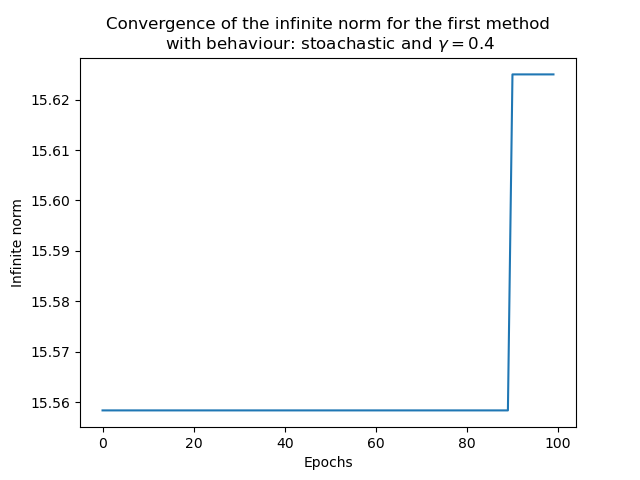
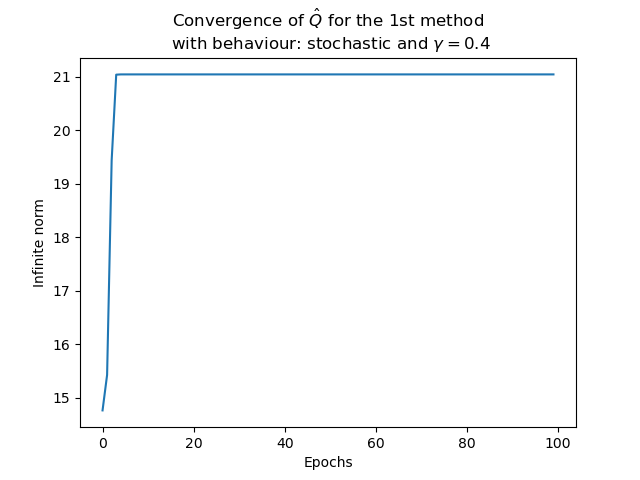
figures + tests

diff --git a/code/section5.py b/code/section5.py
@@ -39,6 +39,8 @@ class Q_Learning:
         self.estimated_Q = self.offline_learning()
         self.estimated_policy = self.compute_policy()
 
+        self.estimated_policy_offline = self.estimated_policy
+
     def compute_policy(self):
         # Compute the policy from the Q values by fetching the action with the highest Q value
         self.policy = np.zeros((NB_LINES, NB_COLUMNS), dtype=object)
@@ -112,9 +114,12 @@ class Q_Learning:
     
     def first_online_learning(self):
         infinite_norm = np.zeros(EPOCHS)
+        infinite_norm_2 = np.zeros(EPOCHS)
         mdp = MDP(self.stochastic_behaviour)
         mdp.compute_policies_iteratively(10)
         j_mu = mdp.function_j(5000)
+        mdp_Q = np.array([mdp.Q_u, mdp.Q_d, mdp.Q_r, mdp.Q_l])
+        mdp_Q = np.moveaxis(mdp_Q, 0, -1)
 
         estimated_Q = np.zeros((NB_LINES, NB_COLUMNS, len(ACTIONS_ALLOWED)))
         self.estimated_Q = estimated_Q
@@ -139,20 +144,35 @@ class Q_Learning:
 
             estimated_j_mu = self.function_j(5000)
             infinite_norm[epoch] = np.max(np.abs(j_mu - estimated_j_mu))
+            infinite_norm_2[epoch] = np.max(np.abs(mdp_Q - estimated_Q))
 
-        plt.figure()
-        plt.plot(range(EPOCHS), infinite_norm)
-        plt.xlabel("Epochs")
-        plt.ylabel("Infinite norm")
-        plt.title("Convergence of the infinite norm for the first method\n with behaviour: " + ("stoachastic " if self.stochastic_behaviour else "deterministic ") + "and " + r"$\gamma =$" + str(GAMMA_3))
-        plt.savefig("figures/first_online_learning_" + ("stochastic_" if self.stochastic_behaviour else "deterministic_") + "gamma_" + str(GAMMA_3) + ".png")
-        plt.close()
+        if GAMMA == 0.9:
+            plt.figure()
+            plt.plot(range(EPOCHS), infinite_norm)
+            plt.xlabel("Epochs")
+            plt.ylabel("Infinite norm")
+            plt.title("Convergence of the expected return for the 1st method\n with behaviour: " + ("stochastic " if self.stochastic_behaviour else "deterministic ") + "and " + r"$\gamma =$" + str(GAMMA_3))
+            plt.savefig("figures/first_online_learning_" + ("stochastic_" if self.stochastic_behaviour else "deterministic_") + "gamma_" + str(GAMMA_3) + ".png")
+            plt.close()
+
+        if GAMMA == 0.4:
+            plt.figure()
+            plt.plot(range(EPOCHS), infinite_norm_2)
+            plt.xlabel("Epochs")
+            plt.ylabel("Infinite norm")
+            plt.title(r"Convergence of $\hat{Q}$ " + "for the 1st method\n with behaviour: " + ("stochastic " if self.stochastic_behaviour else "deterministic ") + "and " + r"$\gamma =$" + str(GAMMA_3))
+            plt.savefig("figures/first_online_learning_" + ("stochastic_" if self.stochastic_behaviour else "deterministic_") + "gamma_" + str(GAMMA_3) + ".png")
+            plt.close()
+
     
     def second_online_learning(self):
         infinite_norm = np.zeros(EPOCHS)
+        infinite_norm_2 = np.zeros(EPOCHS)
         mdp = MDP(self.stochastic_behaviour)
         mdp.compute_policies_iteratively(10)
         j_mu = mdp.function_j(5000)
+        mdp_Q = np.array([mdp.Q_u, mdp.Q_d, mdp.Q_r, mdp.Q_l])
+        mdp_Q = np.moveaxis(mdp_Q, 0, -1)
 
         estimated_Q = np.zeros((NB_LINES, NB_COLUMNS, len(ACTIONS_ALLOWED)))
         self.estimated_Q = estimated_Q
@@ -179,20 +199,34 @@ class Q_Learning:
 
             estimated_j_mu = self.function_j(5000)
             infinite_norm[epoch] = np.max(np.abs(j_mu - estimated_j_mu))
+            infinite_norm_2[epoch] = np.max(np.abs(mdp_Q - estimated_Q))
 
-        plt.figure()
-        plt.plot(range(EPOCHS), infinite_norm)
-        plt.xlabel("Epochs")
-        plt.ylabel("Infinite norm")
-        plt.title("Convergence of the infinite norm for the second method\n with behaviour: " + ("stoachastic " if self.stochastic_behaviour else "deterministic ") + "and " + r"$\gamma =$" + str(GAMMA_3))
-        plt.savefig("figures/second_online_learning_" + ("stochastic_" if self.stochastic_behaviour else "deterministic_") + "gamma_" + str(GAMMA_3) + ".png")
-        plt.close()
+        if GAMMA == 0.9:
+            plt.figure()
+            plt.plot(range(EPOCHS), infinite_norm)
+            plt.xlabel("Epochs")
+            plt.ylabel("Infinite norm")
+            plt.title("Convergence of the expected return for the 2nd method\n with behaviour: " + ("stochastic " if self.stochastic_behaviour else "deterministic ") + "and " + r"$\gamma =$" + str(GAMMA_3))
+            plt.savefig("figures/second_online_learning_" + ("stochastic_" if self.stochastic_behaviour else "deterministic_") + "gamma_" + str(GAMMA_3) + ".png")
+            plt.close()
+
+        if GAMMA == 0.4:
+            plt.figure()
+            plt.plot(range(EPOCHS), infinite_norm_2)
+            plt.xlabel("Epochs")
+            plt.ylabel("Infinite norm")
+            plt.title(r"Convergence of $\hat{Q}$ " + "for the 2nd method\n with behaviour: " + ("stochastic " if self.stochastic_behaviour else "deterministic ") + "and " + r"$\gamma =$" + str(GAMMA_3))
+            plt.savefig("figures/second_online_learning_" + ("stochastic_" if self.stochastic_behaviour else "deterministic_") + "gamma_" + str(GAMMA_3) + ".png")
+            plt.close()
 
     def third_online_learning(self):
         infinite_norm = np.zeros(EPOCHS)
+        infinite_norm_2 = np.zeros(EPOCHS)
         mdp = MDP(self.stochastic_behaviour)
         mdp.compute_policies_iteratively(10)
         j_mu = mdp.function_j(5000)
+        mdp_Q = np.array([mdp.Q_u, mdp.Q_d, mdp.Q_r, mdp.Q_l])
+        mdp_Q = np.moveaxis(mdp_Q, 0, -1)
 
         estimated_Q = np.zeros((NB_LINES, NB_COLUMNS, len(ACTIONS_ALLOWED)))
         self.estimated_Q = estimated_Q
@@ -222,18 +256,29 @@ class Q_Learning:
 
             estimated_j_mu = self.function_j(5000)
             infinite_norm[epoch] = np.max(np.abs(j_mu - estimated_j_mu))
+            infinite_norm_2[epoch] = np.max(np.abs(mdp_Q - estimated_Q))
 
-        plt.figure()
-        plt.plot(range(EPOCHS), infinite_norm)
-        plt.xlabel("Epochs")
-        plt.ylabel("Infinite norm")
-        plt.title("Convergence of the infinite norm for the third method\n with behaviour: " + ("stoachastic " if self.stochastic_behaviour else "deterministic ") + "and " + r"$\gamma =$" + str(GAMMA_3))
-        plt.savefig("figures/third_online_learning_" + ("stochastic_" if self.stochastic_behaviour else "deterministic_") + "gamma_" + str(GAMMA_3) + ".png")
-        plt.close()
+        if GAMMA == 0.9:
+            plt.figure()
+            plt.plot(range(EPOCHS), infinite_norm)
+            plt.xlabel("Epochs")
+            plt.ylabel("Infinite norm")
+            plt.title("Convergence of the expected return for the 3rd method\n with behaviour: " + ("stochastic " if self.stochastic_behaviour else "deterministic ") + "and " + r"$\gamma =$" + str(GAMMA_3))
+            plt.savefig("figures/third_online_learning_" + ("stochastic_" if self.stochastic_behaviour else "deterministic_") + "gamma_" + str(GAMMA_3) + ".png")
+            plt.close()
+
+        if GAMMA == 0.4:
+            plt.figure()
+            plt.plot(range(EPOCHS), infinite_norm_2)
+            plt.xlabel("Epochs")
+            plt.ylabel("Infinite norm")
+            plt.title(r"Convergence of $\hat{Q}$ " + "for the 3rd method\n with behaviour: " + ("stochastic " if self.stochastic_behaviour else "deterministic ") + "and " + r"$\gamma =$" + str(GAMMA_3))
+            plt.savefig("figures/third_online_learning_" + ("stochastic_" if self.stochastic_behaviour else "deterministic_") + "gamma_" + str(GAMMA_3) + ".png")
+            plt.close()
 
 def main():
     deter = Q_Learning(False, TRAJECTORY_LENGTH, INITIAL_STATE, EPSILON, GAMMA)
-    print("\nPolicy for deterministic domain:\n", translater_tuple_action(deter.estimated_policy))
+    print("\nPolicy for deterministic domain:\n", translater_tuple_action(deter.estimated_policy_offline))
     #print(pd.DataFrame(translater_tuple_action(deter.estimated_policy)).to_latex())
     print("\nExpected return for deterministic domain:\n", deter.function_j(5000))
     #print(pd.DataFrame(deter.function_j(5000)).to_latex())
@@ -243,7 +288,7 @@ def main():
     deter.third_online_learning()
 
     stocha = Q_Learning(True, TRAJECTORY_LENGTH, INITIAL_STATE, EPSILON, GAMMA)
-    print("\nPolicy for stochastic domain:\n", translater_tuple_action(stocha.estimated_policy))
+    print("\nPolicy for stochastic domain:\n", translater_tuple_action(stocha.estimated_policy_offline))
     #print(pd.DataFrame(translater_tuple_action(stocha.estimated_policy)).to_latex())
     print("\nExpected return for stochastic domain:\n", stocha.function_j(5000))
     #print(pd.DataFrame(stocha.function_j(5000)).to_latex())
